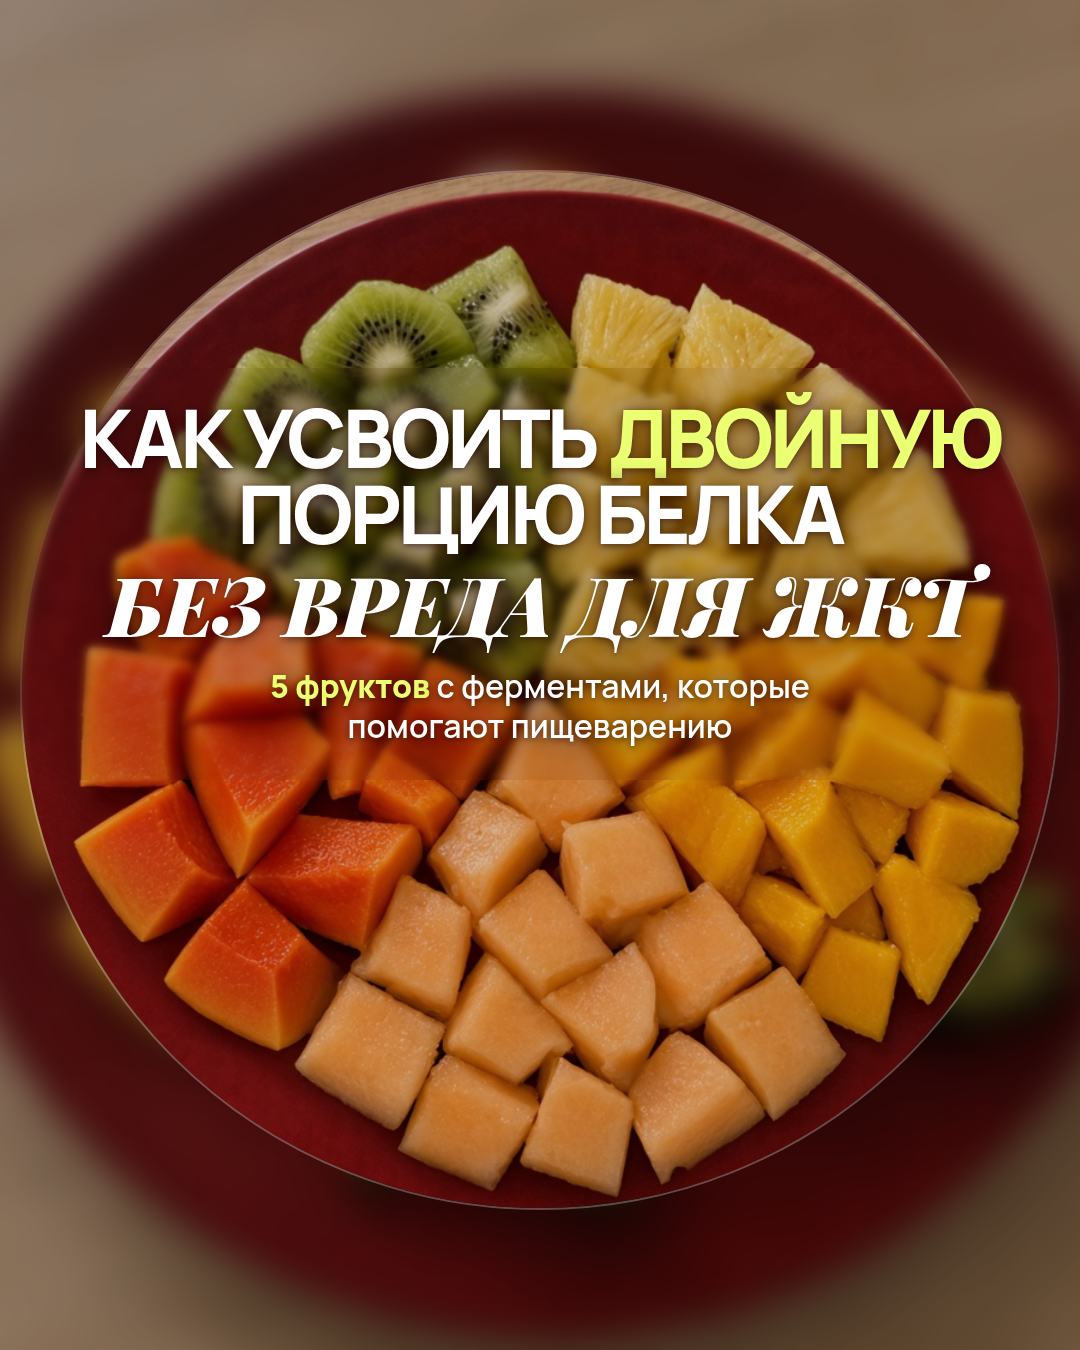
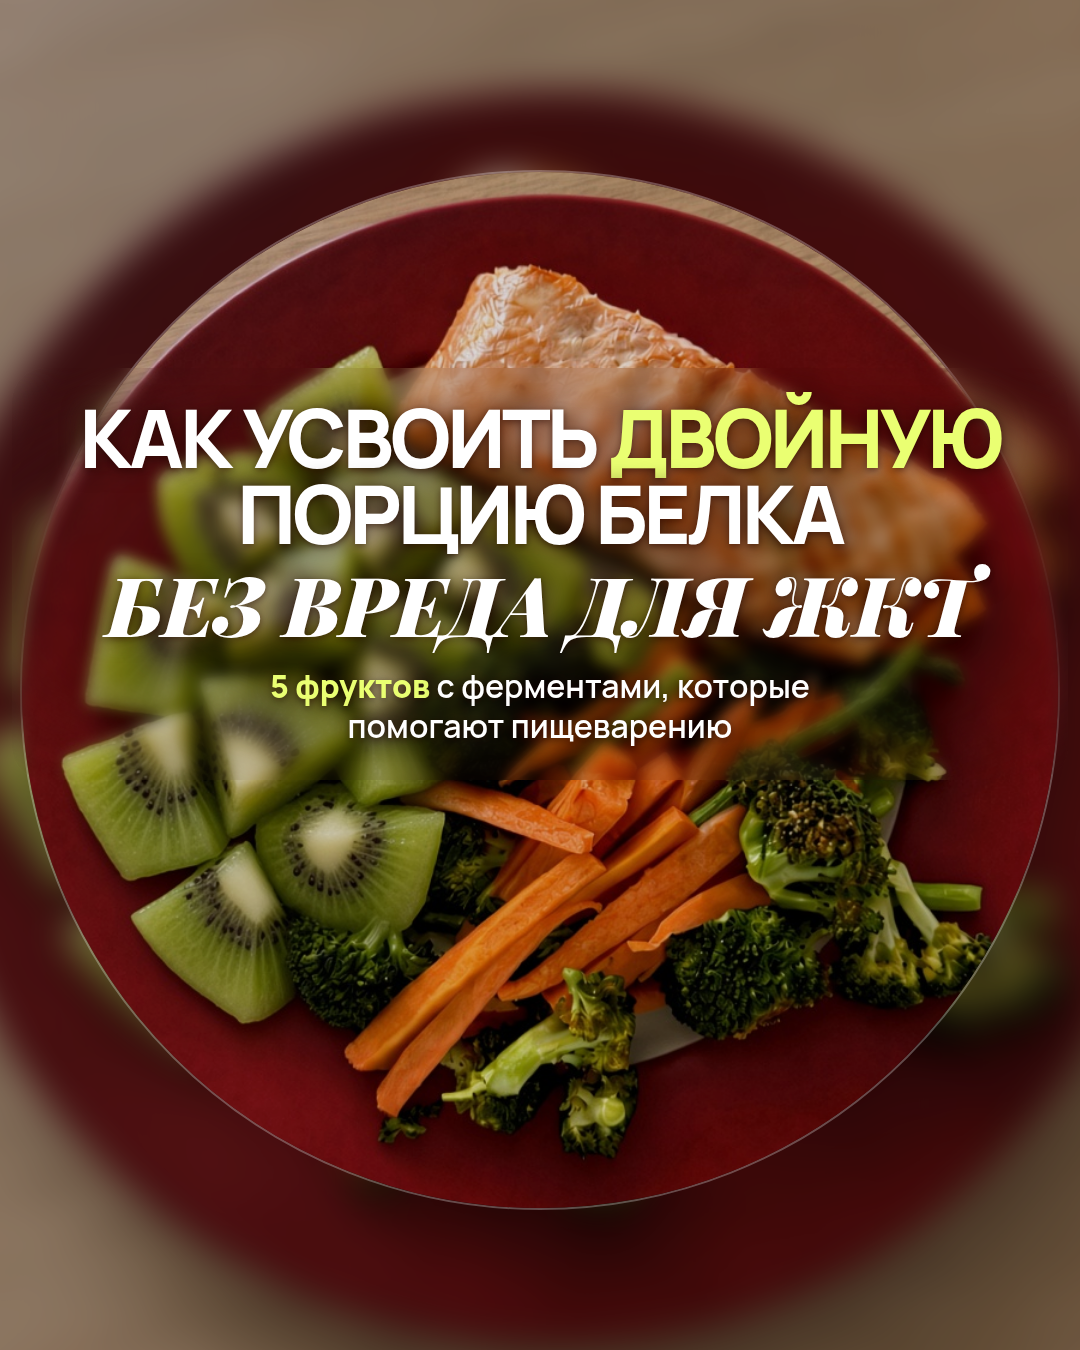
Cover: replace kiwi copy with carousel title and blur

diff --git a/instagram-fruits-zhkt/slide-01-title.html b/instagram-fruits-zhkt/slide-01-title.html
@@ -26,7 +26,7 @@
     .background {
       position: absolute;
       inset: 0;
-      background: url("./mango-red-plate-natural.jpg") center / cover no-repeat;
+      background: url("./kiwi-red-plate-natural.jpg") center / cover no-repeat;
       filter: blur(16px) brightness(.72) saturate(.8);
       transform: scale(1.12);
     }
@@ -66,8 +66,8 @@
       z-index: -1;
       inset: -32px -28px -34px;
       background: rgba(55, 12, 7, .08);
-      backdrop-filter: blur(4px);
-      -webkit-backdrop-filter: blur(4px);
+      backdrop-filter: blur(7px);
+      -webkit-backdrop-filter: blur(7px);
       border-radius: 34px;
       -webkit-mask-image: radial-gradient(
         ellipse at center,
@@ -117,7 +117,7 @@
 <body>
   <div class="slide">
     <div class="background"></div>
-    <div class="plate"><img src="./cover-fruits-plate.jpg" alt=""></div>
+    <div class="plate"><img src="./kiwi-red-plate-natural.jpg" alt=""></div>
 
     <div class="title">
       <h1 class="headline">
